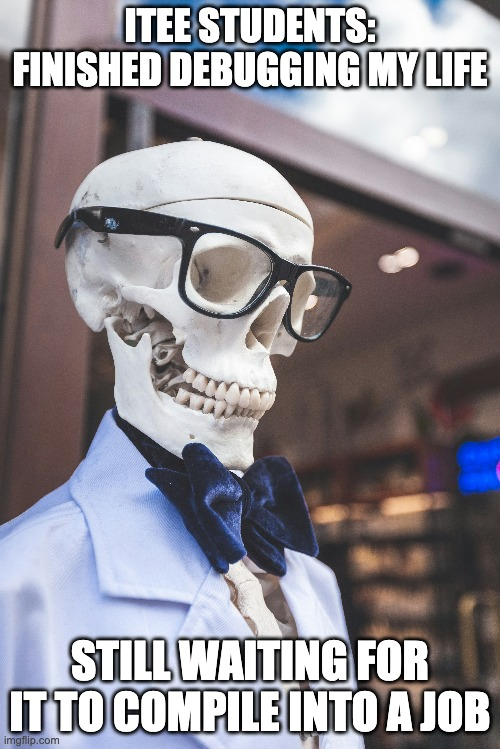
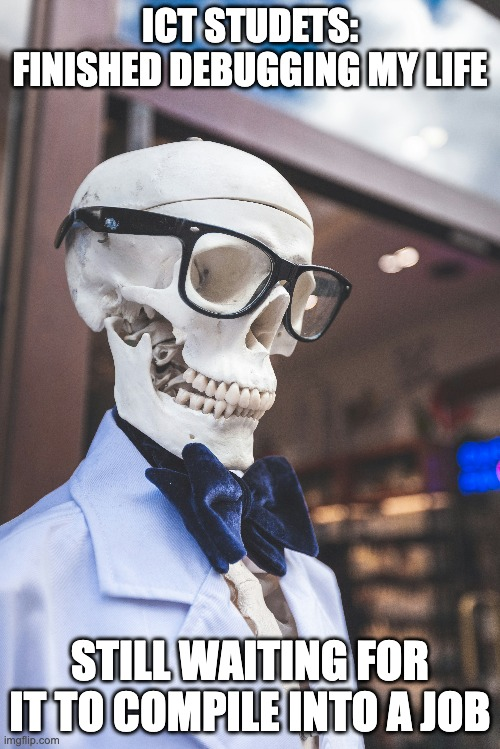
Update image

Changed region(s): [[0.24, 0.0, 0.78, 0.0614]]

diff --git a/index.html b/index.html
@@ -11,10 +11,8 @@
 </head>
 <body>
   <div class="poster">
-    <h1>ICT STUDENTS</h1>
+    <h1>Reality of ICT</h1>
     <img class="motivation_img"src="./daenerys.jpeg"/>
-    <h2>You are unlimited by your imagination</h2>
-    <p>...as long as you watched cartoons</p>
   </div>
 </body>
 </html>
